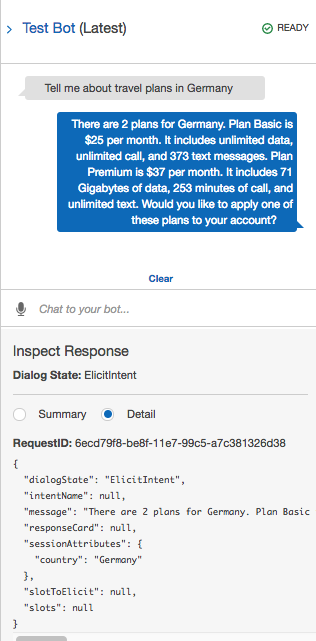
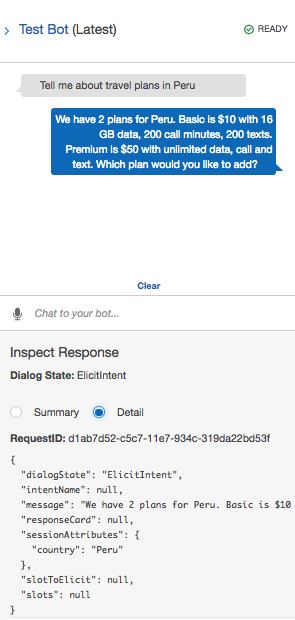
update module 1 example

diff --git a/01_LexBotInformational/Readme.md b/01_LexBotInformational/Readme.md
@@ -135,6 +135,7 @@ Add the following sample utterances to the intent:
 * `List travel plans`
 * `List travel plans available`
 * `Tell me about travel plans in {Country}`
+* `I want to know about travel plans in {Country}`
 * `What international plans do you have`
 
 > Note that you don't need to list exhaustively every possible way of saying the same intent, just a few examples so the Amazon Lex deep learning algorithms can "learn".
@@ -176,7 +177,8 @@ We can configure Lex to send the detected intent and slot values from the user u
 <summary><strong>Step-by-step instructions (expand for details)</strong></summary><p>
 
 1. In the **Fulfillment** section of the intent, choose **AWS Lambda function** and use the selector to pick the `lex-workshop-LexBotHandler` function
-	![alt text](images/pick-lambda.png)
+	
+	<img src="images/pick-lambda.png" alt="" width="60%">
 
 1. Click **OK** to give Lex permission to invoke the Lambda function.
 	![alt text](images/confirm-lambda-permission.png)
@@ -187,7 +189,7 @@ We can configure Lex to send the detected intent and slot values from the user u
 
 1. Test the bot 
 
-	<img src="images/after-lambda-integration.png" width="60%">
+	<img src="images/after-lambda-integration.png" width="50%">
 
 	> The plan data are randomly generated and loaded into a dynamoDB table by the CloudFormation. It might not always make economic sense. 
 
